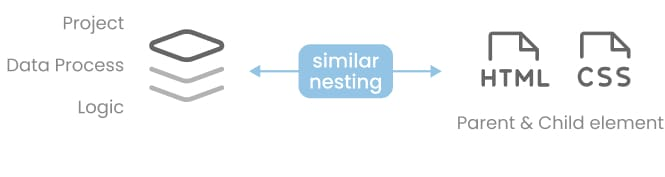
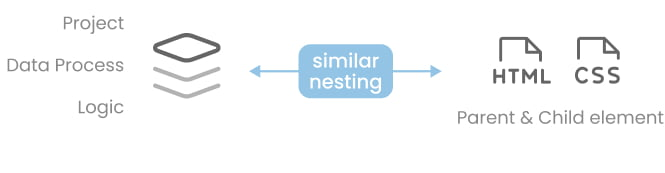
Add ux section to LOC

diff --git a/work/projects/loc.html b/work/projects/loc.html
@@ -96,20 +96,40 @@
 					</picture>
 				</figure>
 			</section>
-			<h3 class="f-30 txt-center pt-3 animated wow fadeIn" data-wow-duration="1.0s" data-wow-delay=".2s">How to Visualize Data?</h3>
+			<h3 class="f-30 txt-center pt-3 animated wow fadeIn" data-wow-duration="1.0s" data-wow-delay=".2s">Design Process</h3>
 			<section class="section-desc flow-demo">
 				<figure class="animated wow fadeIn pt-1 txt-left" data-wow-duration="1.0s" data-wow-delay=".2s">
 					<figcaption style="margin-bottom: 2rem;">
 						<p class="f-20 mb-1">Target Audience: <span style="color: gray">To businesses, like financial and insurance companies</span></p>
 						<p class="f-20 mb-1">Commercial Goal: <span style="color:gray">Increase user trust</span></p>
 						<p class="f-20 mb-1">Usability Goal: <span style="color:gray">Help user quickly understand the core function</span></p>
-						<p class="f-20">User Type: <span style="color:gray">Engineers at the client company</span></p>
+						<p class="f-20 mb-1">User Type: <span style="color:gray">Engineers at the client company</span></p>
 					</figcaption>
 					<picture>
 						<source media="(max-width: 600px)" srcset="/images/loc/loc013-small.jpg" alt="">
 						<source media="(min-width: 601px)" srcset="/images/loc/loc013.jpg" alt="">
 						<img src="/images/loc/loc013.jpg" alt="">
 					</picture>
+					<figcaption style="margin-bottom: 2rem;">
+						<p class="f-20 pt-2 mb-1">UX Research: <span style="color:gray">Using qualitative methods to find causes, such as psychological and behavioral reasons</span></p>
+						<p class="f-20 mb-1">Stakeholder Interview: <span style="color:gray">PM sharing meeting minutes and LOC Core user feedback</span></p>
+						<p class="f-20">User Pain Point: <span style="color:gray">Engineers need to extract data from different systems, which requires access permissions, but they lack the habit of storing and organizing related records</span></p>
+					</figcaption>
+					<picture>
+						<source media="(max-width: 600px)" srcset="/images/loc/loc016-small.jpg" alt="">
+						<source media="(min-width: 601px)" srcset="/images/loc/loc016.jpg" alt="">
+						<img src="/images/loc/loc016.jpg" alt="">
+					</picture>
+					<figcaption style="margin-bottom: 1rem;">
+						<p class="f-20 pt-2 mb-1">Persona <span class="f-17">(LOC Studio)</span>: <span style="color:gray">Engineers are focused on their work and don't like to be disturbed. Insurance sales may request info and relevant data for different time periods. Compliance specialists need to understand the compliance standards for data transmission processes.</span></p>
+					</figcaption>
+					<picture>
+						<source media="(max-width: 600px)" srcset="/images/loc/loc017-small.jpg" alt="">
+						<source media="(min-width: 601px)" srcset="/images/loc/loc017.jpg" alt="">
+						<img src="/images/loc/loc017.jpg" alt="">
+					</picture>
+				</figure>
+				<figure class="animated wow fadeIn pt-1 txt-left" data-wow-duration="1.0s" data-wow-delay=".2s">
 					<figcaption>
 						<p class="f-20 pt-2 mb-1">Challenge: <span style="color: gray">Provide a graphical user interface</span></p>
 						<p class="f-20">Issue: <span style="color:gray">Break down abstract concepts and use association and analogy to enhance understanding.</span></p>